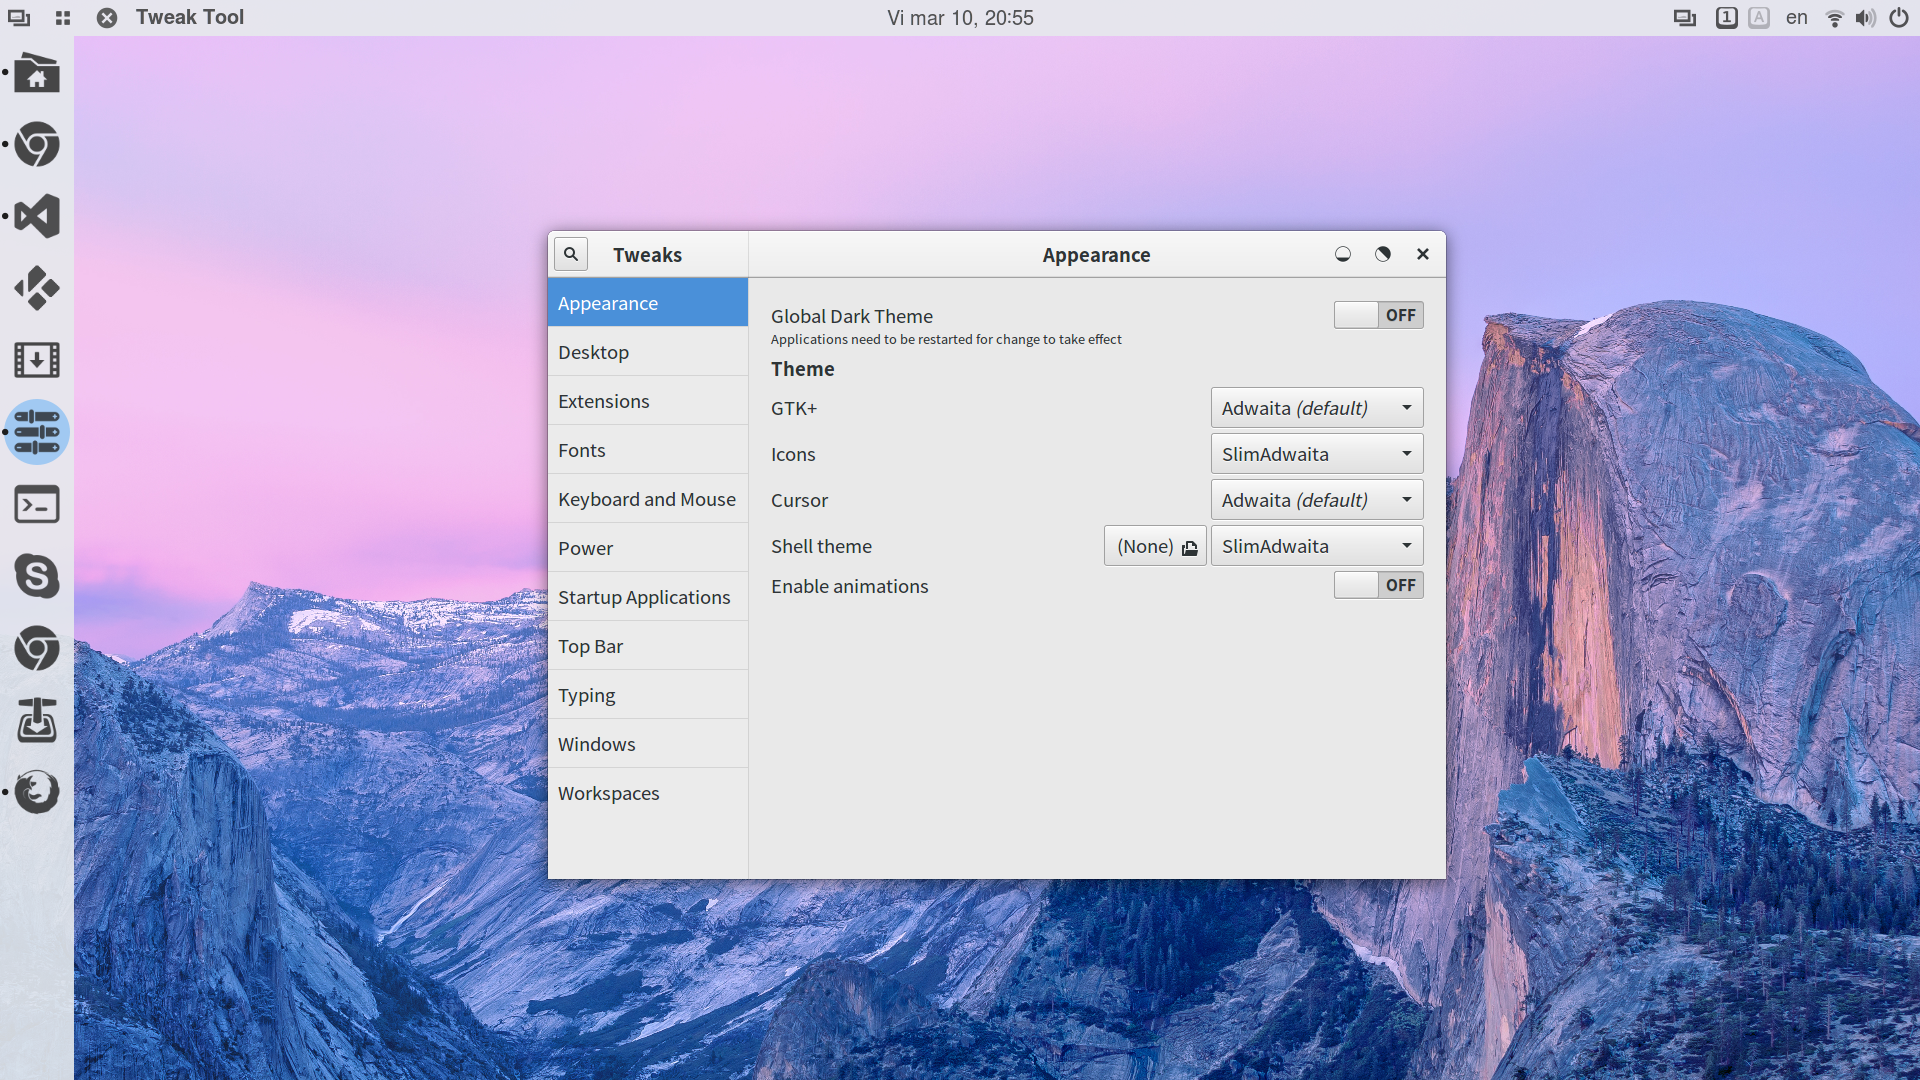
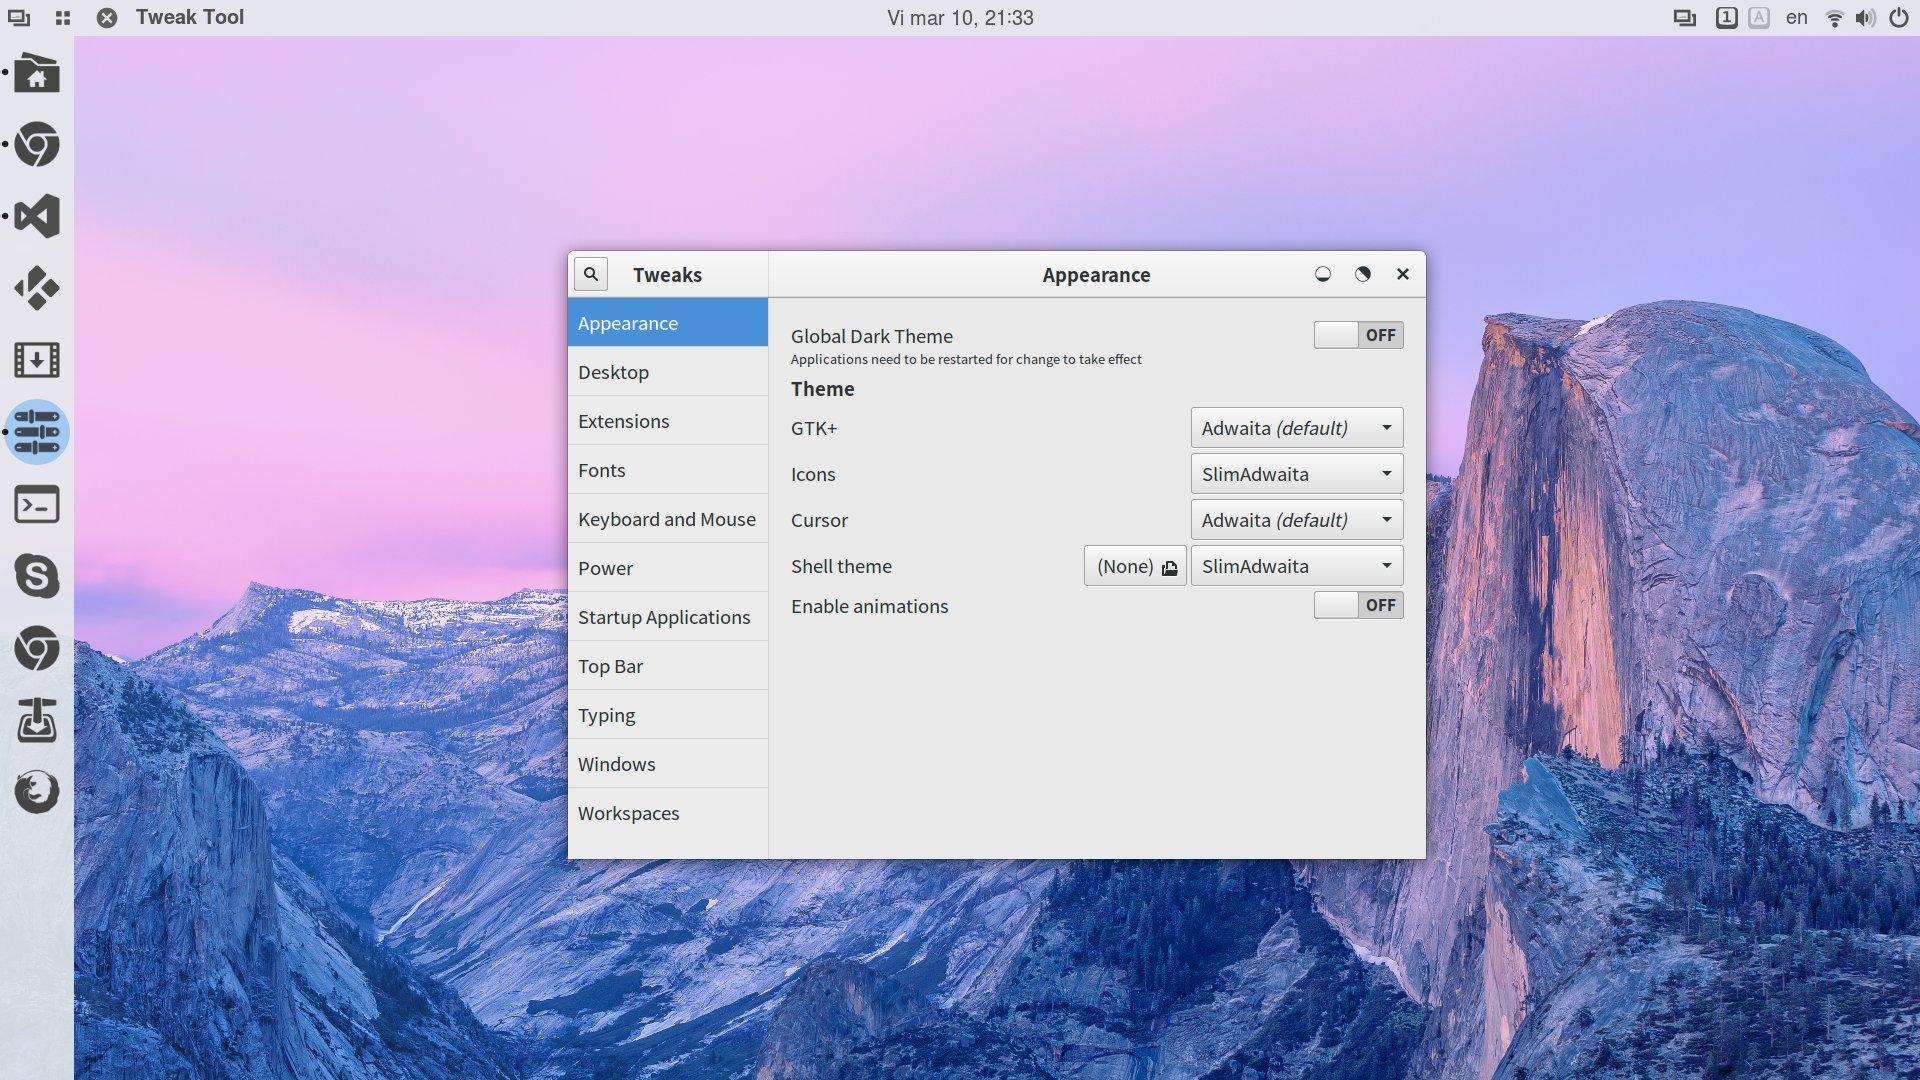
gtkwindow margin & padding

Changed region(s): [[0.2812, 0.1833, 0.7812, 0.825]]

diff --git a/.config/gtk-3.0/gtk.css b/.config/gtk-3.0/gtk.css
@@ -1,3 +1,9 @@
+
+GtkWindow {
+	margin: 20px;
+	padding: 20px;
+}
+
 .window-frame.maximized {
 	border-radius: 0;
 	border-left: 1px solid #c0ccd4;
